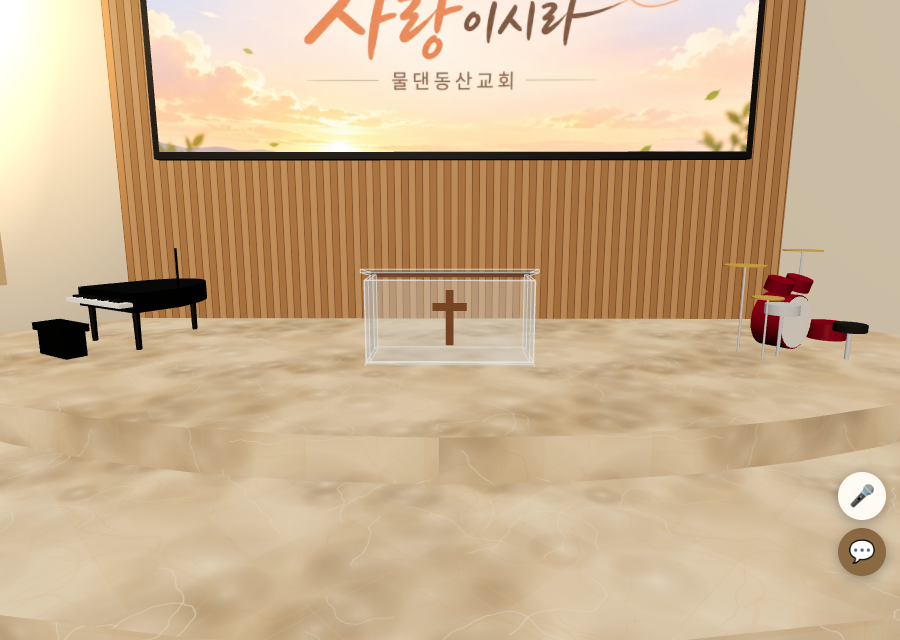
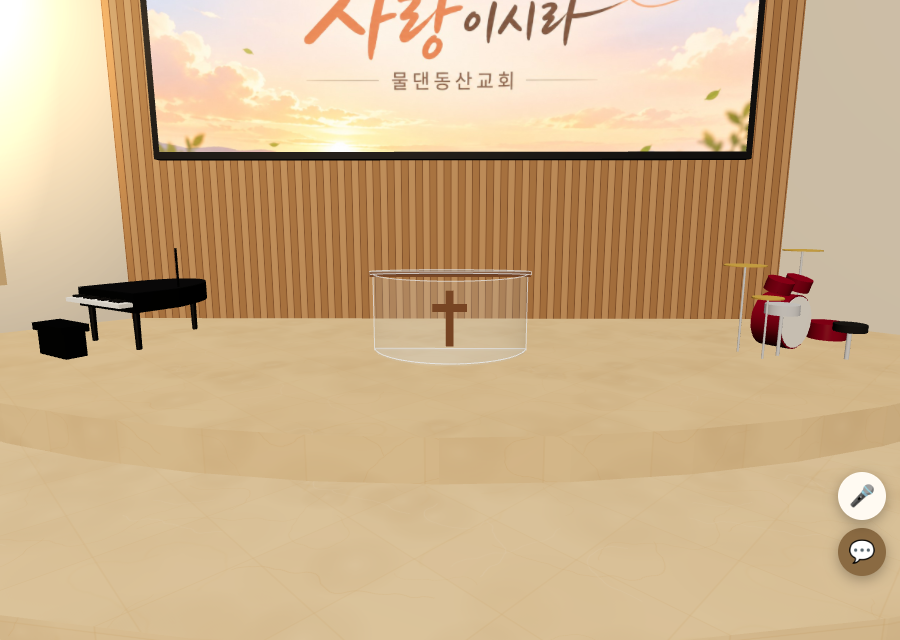
Smoother stage marble, kept a shade darker than the floor
Claude-Session: https://claude.ai/code/session_01Vz1QJf3UdmpjXu7m5EnhFF

diff --git a/index.html b/index.html
@@ -1772,15 +1772,16 @@
 
     // ---- 베이지 대리석 무늬 (본당 바닥): 1024px 한 장에 타일 4×4, 이어 붙여도 이음새가 안 보이게 가장자리를 감아서 그림 ----
     const MARBLE_SPAN = 1.6;                     // 그림 한 장이 덮는 바닥 너비(m) → 타일 한 장 0.4m
-    function marbleTexture(seed) {
+    function marbleTexture(seed, smooth) {                   // smooth: 얼룩·굵은 결을 줄인 매끈한 판 (강단)
       const N = 1024, c = document.createElement('canvas'); c.width = c.height = N; const x = c.getContext('2d');
       let sd = seed || 7; const rnd = () => { sd = (sd * 16807) % 2147483647; return sd / 2147483647; };
       const wrap = (fn) => { for (const ox of [-N, 0, N]) for (const oy of [-N, 0, N]) fn(ox, oy); };
       x.fillStyle = '#f4e6d0'; x.fillRect(0, 0, N, N);
-      for (let i = 0; i < 70; i++) {                                    // 은은한 얼룩 (밝은 크림 / 조금 진한 베이지)
+      const K = smooth ? 0.3 : 1;
+      for (let i = 0; i < (smooth ? 30 : 70); i++) {                    // 은은한 얼룩 (밝은 크림 / 조금 진한 베이지)
         const cx = rnd() * N, cy = rnd() * N, r = 40 + rnd() * 170, dark = rnd() < 0.55;
         wrap((ox, oy) => { const gr = x.createRadialGradient(cx + ox, cy + oy, 0, cx + ox, cy + oy, r);
-          gr.addColorStop(0, dark ? 'rgba(226,198,160,0.16)' : 'rgba(252,244,232,0.35)'); gr.addColorStop(1, 'rgba(0,0,0,0)');
+          gr.addColorStop(0, dark ? `rgba(226,198,160,${0.16 * K})` : `rgba(252,244,232,${0.35 * K})`); gr.addColorStop(1, 'rgba(0,0,0,0)');
           x.fillStyle = gr; x.fillRect(cx + ox - r, cy + oy - r, r * 2, r * 2); });
       }
       const vein = (col, w, steps, len) => {                            // 갈라지는 결 (마구 걷는 선)
@@ -1788,12 +1789,12 @@
         for (let i = 0; i < steps; i++) { a += (rnd() - 0.5) * 0.9; px += Math.cos(a) * len; py += Math.sin(a) * len; pts.push([px, py]); }
         wrap((ox, oy) => { x.beginPath(); pts.forEach(([u, v], i) => i ? x.lineTo(u + ox, v + oy) : x.moveTo(u + ox, v + oy)); x.strokeStyle = col; x.lineWidth = w; x.lineJoin = 'round'; x.stroke(); });
       };
-      x.filter = 'blur(2px)'; for (let i = 0; i < 16; i++) vein('rgba(214,182,140,0.22)', 4 + rnd() * 5, 30 + rnd() * 30, 9 + rnd() * 8);
+      x.filter = 'blur(2px)'; for (let i = 0; i < (smooth ? 5 : 16); i++) vein(smooth ? 'rgba(214,182,140,0.1)' : 'rgba(214,182,140,0.22)', 4 + rnd() * 5, 30 + rnd() * 30, 9 + rnd() * 8);
       x.filter = 'none';
-      for (let i = 0; i < 26; i++) vein('rgba(196,160,118,0.32)', 0.8 + rnd() * 1.4, 20 + rnd() * 40, 6 + rnd() * 8);
-      for (let i = 0; i < 18; i++) vein('rgba(255,250,240,0.7)', 0.8 + rnd() * 1.2, 15 + rnd() * 30, 6 + rnd() * 8);
+      for (let i = 0; i < (smooth ? 10 : 26); i++) vein(smooth ? 'rgba(196,160,118,0.22)' : 'rgba(196,160,118,0.32)', 0.8 + rnd() * 1.4, 20 + rnd() * 40, 6 + rnd() * 8);
+      for (let i = 0; i < (smooth ? 8 : 18); i++) vein(smooth ? 'rgba(255,250,240,0.45)' : 'rgba(255,250,240,0.7)', 0.8 + rnd() * 1.2, 15 + rnd() * 30, 6 + rnd() * 8);
       const T = N / 4;                                                  // 타일마다 밝기를 살짝 다르게 + 줄눈
-      for (let i = 0; i < 4; i++) for (let j = 0; j < 4; j++) { x.fillStyle = rnd() < 0.5 ? 'rgba(255,248,236,0.08)' : 'rgba(200,170,130,0.06)'; x.fillRect(i * T, j * T, T, T); }
+      for (let i = 0; i < 4; i++) for (let j = 0; j < 4; j++) { x.fillStyle = rnd() < 0.5 ? `rgba(255,248,236,${0.08 * K})` : `rgba(200,170,130,${0.06 * K})`; x.fillRect(i * T, j * T, T, T); }
       x.strokeStyle = 'rgba(214,192,162,0.55)'; x.lineWidth = 1.5;
       for (let i = 0; i <= 4; i++) { x.beginPath(); x.moveTo(i * T, 0); x.lineTo(i * T, N); x.moveTo(0, i * T); x.lineTo(N, i * T); x.stroke(); }
       const tex = new THREE.CanvasTexture(c); tex.wrapS = tex.wrapT = THREE.RepeatWrapping; tex.anisotropy = 8;
@@ -2050,10 +2051,10 @@
       });
       // 강단 두 단: 바닥 대리석보다 조금 짙은 베이지 대리석 (사용자 요청). 윗단을 아랫단보다 아주 조금 더 짙게
       {
-        const st = marbleTexture(23);
-        [['B1_FINAL_Stage_Tier_0', 0xeedcc6], ['B1_FINAL_Stage_Tier_1', 0xe8d4bb]].forEach(([n, col]) => {
+        const st = marbleTexture(23, true);   // 매끈하게 (사용자 요청)
+        [['B1_FINAL_Stage_Tier_0', 0xe2c9a8], ['B1_FINAL_Stage_Tier_1', 0xdbc09c]].forEach(([n, col]) => {
           const m = byName[n]; if (!m) return;
-          m.material = new THREE.MeshStandardMaterial({ map: st, color: col, emissiveMap: st, emissive: 0xf2e2cc, emissiveIntensity: 0.2, roughness: 0.25, metalness: 0.0 });
+          m.material = new THREE.MeshStandardMaterial({ map: st, color: col, emissiveMap: st, emissive: 0xe8d2b4, emissiveIntensity: 0.16, roughness: 0.16, metalness: 0.0 });
           m.geometry = planarUV(m, MARBLE_SPAN); m.receiveShadow = true;
         });
       }

diff --git a/docs/verification/2026-11-05/REPORT.md b/docs/verification/2026-11-05/REPORT.md
@@ -332,3 +332,7 @@
 ## 아크릴 강대상을 둥근 모양으로 (사용자 요청)
 - 뒤는 곧고 앞은 회중 쪽으로 둥글게 나온 반달꼴(폭 1.1m, 깊이 0.45m). 앞판은 옆까지 감싸는 곡면 아크릴, 바닥판·위판도 같은 반달꼴. 십자가는 둥근 앞면 가운데.
 - 검사: `pulpit2.cjs pulpit` → `pulpit-front/side/hall.png`, 오류 없음.
+
+## 강단 바닥 매끈하게 (사용자 요청)
+- 강단 대리석만 얼룩·굵은 결을 크게 줄이고(얼룩 30%, 결 개수 절반 이하), 윤을 조금 더(roughness 0.16). 얼룩이 빠지며 밝아진 만큼 색을 조금 짙게 해 바닥보다 한 단계 짙은 톤 유지.
+- 검사: `pulpit2.cjs stage` → `stage-hall.png`, `stage-front.png`, 오류 없음.
